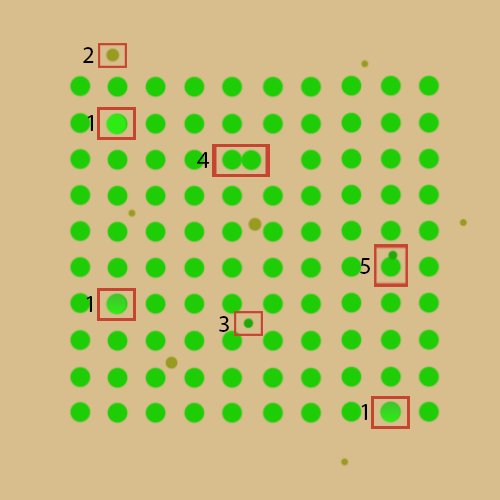
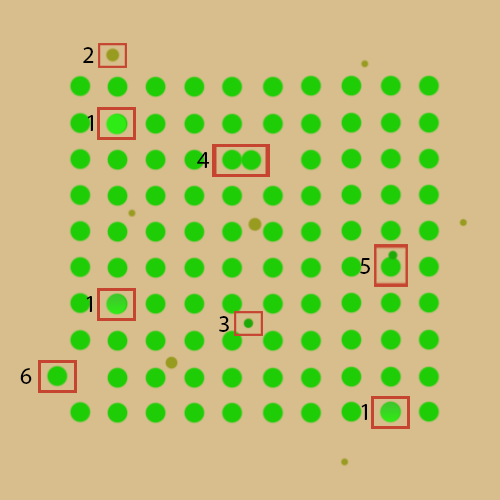
Changement Traitement d'images

Changed region(s): [[0.03, 0.72, 0.18, 0.81], [0.6, 0.15, 0.63, 0.21]]

diff --git a/report/ColorDetection.tex b/report/ColorDetection.tex
@@ -6,7 +6,7 @@ To increase the robustness of the algorithm, the color of the light beams was ch
 
 For unit testing, the image analysis is performed by extracting frames from the video stream obtained thanks to the computer webcam. These images are processed very quickly, which allows a real time analysis. The details of the method employed are given below. For the explanation, the figures are obtained for the detection of a blue box (the H value was changed for this purpose), but the algorithm works similarly for green light beams.
 
-To begin with, a low-pass filter is applied to the image to handle to smooth it and to reduce the noise. Once achieved, the image is converted from RGB to HSV (see Theory Section) in order to get a better control of the colors and intensities of the image pixels. The range of the HSV parameters can be determined to isolate the bright green pixels from the rest of the image. The equivalent hue is between 60\degree  and 180\degree, taking a large scope to be sure to isolate the good color component. As the luminous points will be bright, the range of the saturation and the luminosity should be chosen around the upper values. To adjust the values, several trackbars are added to the image, see figure \ref{fig:trackbars} and the modifications are made in real time. All the values under the threshold defined are irrelevant. Thus the pixels of the binary image which corresponds to the HSV thresholding are set to 1 (white) for the zone where the light beams are recognized and to 0 (black) for the background, the rest of the image. This image is then easier to deal with because it is only composed of two values, black and white. Erosions and dilations can be applied respectively to separate connected light beams and remove noise or to fill holes in the rays. The number or erosions and dilations are selected thanks to trackbars once again (figure \ref{fig:trackbars}) and they are computed with the OpenCV functions. 
+To begin with, a low-pass filter is applied to the image to handle to smooth it and to reduce the noise. Once achieved, the image is converted from RGB to HSV (see Theory Section) in order to get a better control of the colors and intensities of the image pixels. The range of the HSV parameters can be determined to isolate the bright green pixels from the rest of the image. The equivalent hue is between 60\degree  and 180\degree, taking a large scope to be sure to isolate the good color component. As the luminous points will be bright, the range of the saturation and the luminosity should be chosen around the upper values. To adjust the values, several trackbars are added to the image, see figure \ref{fig:trackbars} and the modifications are made in real time. All the values under the thresholds defined are irrelevant. Thus the pixels of the binary image which corresponds to the HSV thresholding are set to 1 (white) for the zone where the light green points are recognized and to 0 (black) for the background, the rest of the image. This image is then easier to deal with because it is only composed of two values, black and white. Erosions and dilations can be applied respectively to separate connected light beams and remove noise or to fill holes in the points. The number or erosions and dilations are selected thanks to trackbars once again (figure \ref{fig:trackbars}) and they are computed with the OpenCV functions with a 3x3 rectangular structuring element. The size of the kernel of the low-pass filter is also controllable with the trackbars. 
 
 \begin{figure}[H]
   \centering
@@ -15,7 +15,7 @@ To begin with, a low-pass filter is applied to the image to handle to smooth it 
   \label{fig:trackbars}
 \end{figure}
 
-The calibration is carried out through the trackbars and the result is displayed on the video stream with the addition of contours to facilitate the tuning (figure \ref{fig:contours}). \textit{cvFindContours} is used to search the contour of the light beams. The detection is based on the same principle that it has been seen during the exercises in the lab. The algorithm looks for the first pixel belonging to the beam and then follows the contour pixel by pixel. Once the threshold of the low-pass filter, the HSV values and the number of erosion and dilation are established, the calibration is completed.
+The calibration is carried out through the trackbars and the result is displayed on the video stream with the addition of contours to facilitate the tuning (figure \ref{fig:contours}). \textit{cvFindContours} is used to search the contour of the light spots. The detection is based on the same principle that it has been seen during the exercises in the lab. The algorithm looks for the first pixel belonging to the point and then follows the contour pixel by pixel. Once the threshold of the low-pass filter, the HSV values and the number of erosion and dilation are established, the calibration is completed. For the unit testing with the blue box, we will only focus on the color detection and the centroiding. Thus, no erosion nor dilation will be added and the filter kernel is set to one pixel, which does nothing. 
 
 \begin{figure}[H]
   \centering
@@ -24,7 +24,7 @@ The calibration is carried out through the trackbars and the result is displayed
   \label{fig:contours}
 \end{figure}
 
-In order to compute the centroid of the beams, it is needed to retrieve their intensity. To this end, the color detection should return an image with the light points in HSV color on a black background. To do so, the binary image is multiplied by the HSV image. The multiplication is explained by the pseudo code below. 
+In order to compute the centroid of the beams spots, it is needed to retrieve their intensity. To this end, the color detection should return an image with the light points in HSV color on a black background. To do so, the binary image is multiplied by the HSV image. The multiplication is explained by the pseudo code below. 
 
 \begin{algorithmic}
 \Function{multiplication}{binary image, color image}
@@ -39,7 +39,7 @@ In order to compute the centroid of the beams, it is needed to retrieve their in
 \EndFunction
 \end{algorithmic}
 
-The final image obtained is shown figure \ref{fig:finalImage}.
+The final image obtained is shown figure \ref{fig:finalImage}. Each white pixel corresponding to 1 in the binary image is replaced in the final image by the HSV value of the original image and the background is set to black like in the binary image.
 
 \begin{figure}[h]
   \centering
@@ -49,7 +49,9 @@ The final image obtained is shown figure \ref{fig:finalImage}.
 \end{figure}
 
 \subsection{Beams Distinction}
-In the previous part, a unit test was performed with a blue box to check the efficiency of the color detection algorithm. However, the aim is to project a grid of 10 x 10 green points on a rock. Once they are extracted from the rest of the image with the same technique described above, they need to be separated. Indeed, for now, we only have the coordinates of the pixels assumed to belong to the spots. To look for the center of mass, the pixels which constitute each point have to be gathered. It should be noticed that, as no pattern is used to carry out the depth mapping, the green points cannot be distinguished from each others. This implementation does not take into account the position of each beam, which could be problematic if the deformation is too important. To solve this problem, different patterns have to be projected on the rock, which would assure that no spot has been switched. Nevertheless, this method requires more material, power consumption and is dismissed in a first approach.
+In the previous part, a unit test was performed with a blue box to check the efficiency of the color detection algorithm. However, the aim is to project a grid of 10 x 10 green points on a rock. Once they are extracted from the rest of the image with the same technique described above, they need to be separated. Indeed, for now, we only have the coordinates of the pixels assumed to belong to the beam spots. To look for their center of mass, the pixels which constitute each point have to be gathered. 
+
+It should be noticed that, as no pattern other than an unicolour grid is used to carry out the depth mapping, the green points cannot be distinguished from each others. Thus, this implementation does not take into account the position of each beam spot, which could be problematic if the deformation is too important. Indeed, if a point is slightly linked to another or if it has moved and is a bit above or under the others, it is still possible to retrieve its original position. It is only if the change is too important that it will be very complicated to get the correct location of each beam spot. To solve this problem, different patterns as described in the Structured Light Theory Section have to be projected on the rock, which would assure that no spot has been switched. Nevertheless, this method requires more material, power consumption and is dismissed in a first approach. 
 
 To differentiate each point, a recursive method was implemented using C++ which consists to isolate a point using neighbouring pixels. The pseudo code explaining the technique can be found below:
 
@@ -67,4 +69,4 @@ To differentiate each point, a recursive method was implemented using C++ which 
 \EndFunction
 \end{algorithmic}
 
-The image is scanned and each time that a green pixel is detected, that means that it is the beginning of a new point. A new table to collect the coordinates of pixels belonging to it is created. The recursive method is run. The first pixel position is added to the table, its value is set to 0 in the image and the recursive method is repeated while neighbouring pixels are found. At the end, a 2D table is obtained where the rows correspond to the spots and the columns to each pixel belonging to the point. The centroiding algorithm can then be processed to determine the center of mass of each spot and compute their distance to the camera. 
+The image is scanned and it is assumed that a new point begins each time that a green pixel is detected. A table to collect the coordinates of pixels belonging to the new beam spot is created and given in parameter to the recursive method. The first pixel position is added to the table, its value is set to 0 in the image and the recursive method is repeated while neighbouring pixels are found. At the end, a 2D table is obtained where the rows correspond to the spots and the columns to each pixel belonging to the point. The centroiding algorithm can then be processed to determine the center of mass of each spot and compute their distance to the camera. We can note that, for now, the points are separated but if they were not perfectly aligned on the projection, the rows of the 2D table are not in the same order than the original projected points.

diff --git a/report/Centroiding.tex b/report/Centroiding.tex
@@ -1,12 +1,12 @@
 \subsection{Centroiding}
 
-The 3D map can be performed with the coordinates of the light points seen by the camera. They are determined by estimating the center of the spot, and to do so, the center of mass, also called the centroid needs to be calculated in the final image acquired by the color detection. In order to get it, a barycenter of the pixels belonging to the beam is carried out weighted by the intensity of the pixel (S value in HSV model).
+The 3D map can be performed with the coordinates of the light points seen by the camera. They are determined by estimating the centre of the spots, and to do so, the centres of mass, also called the centroids need to be calculated in the final image acquired by the color detection. In order to get it, a barycentre of the pixels belonging to the beam spot is carried out weighted by the intensity of the pixel (S value in HSV model).
 
 \begin{align}
 x_c &= \frac{\sum_x x \cdot I(x,y)}{\sum_x \sum_y I(x,y)} \label{xcentroid} \\
 y_c &= \frac{\sum_y y \cdot I(x,y)}{\sum_x \sum_y I(x,y)} \label{ycentroid}
 \end{align}
-Where $x_c$ and $y_c$ are the coordinates of the center of mass of the spot, $x$ and $y$ the coordinates of each pixel belonging to the spot and $I$ their corresponding intensity.
+Where $x_c$ and $y_c$ are the coordinates of the centre of mass of the spot, $x$ and $y$ the coordinates of each pixel belonging to the spot and $I$ their corresponding intensity.
 
 The intensity of each pixel is obtained by splitting the canals of the image into three to retrieve an image with only the Saturation values. Then the formulas \eqref{xcentroid} and \eqref{ycentroid} are computed. A white cross is displayed on the centroid in real time as it can be seen on the figure \ref{fig:finalImage} or below figure \ref{fig:gridCentroiding} on a simple grid image \ref{fig:grid}.
 
@@ -24,9 +24,24 @@ The intensity of each pixel is obtained by splitting the canals of the image int
 \caption{RGB images of a grid of 10 x 10 green points without any noise} 
 \end{figure}
 
-In a real application, the grid will not be so perfect after the projection on the rock. Small light spots could be detected as false positive or two points could be slightly linked. In order to deal with these issues, two solutions are implemented. First, during the separation step, if a point has an insignificant number of pixel, it is dismissed. The threshold can be adjusted knowing the expected size of a point. On the other hand, morphological operations (see Theory Section) such as openings are used to disconnect two linked points. The number of erosion and dilation to carry out to separate the points without loosing too much information about the points have to be calibrated. These techniques are tested on the same grid as above, adding some noise (see figures \ref{fig:noisyGrid} and \ref{fig:noisyGridCentroiding}. To make sure that the opening will only slightly change the center of mass of the points, the centroiding method was performed on figure \ref{fig:grid} with and without opening. The coordinates of the centroids were exactly the same in the two cases. The opening has preserved the information. It will be assume that even if there is a slight centroiding error after the opening, it is insignificant.
+In a real application, the grid will not be so perfect after the projection on the rock. Small light spots could be detected as false positive, two points could be slightly linked or some spots could be displaced. In order to deal with these issues, three solutions are implemented: 
+\begin{itemize}
+\item During the separation step, if a point has an insignificant number of pixel, it is dismissed. The threshold can be adjusted knowing the expected size of a point. 
+\item Morphological operations (see Theory Section) such as openings are used to disconnect two linked points. The number of erosion and dilation to carry out to separate the points without loosing too much information about the points have to be calibrated. 
+\item A bubble sort of the \textbf{x} (or horizontal) coordinate of the centroids is implemented. It consists of finding the maximum \textbf{x} between two consecutive centres of mass and swap them if the bigger value is before the lower. The algorithm goes once through the whole table by repeating this operation box by box. It will be reiterated from the beginning of the table through the end minus one box each time until there is no more swap during an iteration. Thanks to this method, the detected points are classified by their horizontal position. Nevertheless, it must be remembered that the vertical location of the beam spots have to be taken into consideration since we want to order the points row by row from the left to the right. This means that the algorithm needs to be modified to arrange the \textbf{x} position of the points only in they belong to the same row. Thus, we swap the consecutive centroids if their horizontal position is not in an ascending order and also if they belong to the same row. As our grid is 10 x 10, we round to the lower ten the current box position (the numbering is from 0) to know at which row the spot is located.
+\end{itemize}
 
-Several types of noise are added and are denoted figure \ref{fig:noisyGrid}. The first one shows that small changes of green color on a point or inside the same point do not affect the color detection. The second noise is a spot of a green-brown color. As it is expected, it is not detected by the color detection algorithm. Then, the same spot (3 on the figure) but with a color close to the grid points is added to the image. It is detected as a point but its size is under the threshold chosen and it is dismissed as it can be seen on the figure \ref{fig:noisyGridCentroiding}. The opening also ensures that the unexpected spot disappears. The fourth noise represents two linked points. Thanks to the opening, they are well separated on the final image. Finally, the last kind of noise tested (5) is a smaller green spot (which is noise) linked to a real point. The spot is small and even if it is detected by the color algorithm, the opening is efficient enough to delete it. 
+These techniques are tested on the same grid as above, adding some noise (see figures \ref{fig:noisyGrid} and \ref{fig:noisyGridCentroiding}. To choose the adapted number of erosion and dilation to effectuate the opening, the size of the points have to be taken into account. Indeed, if too many erosions are carried out, all the beam spots will be removed. On the contrary, if not enough are accomplished, two linked spots will not be separated. Each point of the grid is composed of around 300 pixels.  As we want to keep enough pixels to compute an accurate centroid, it is needed to keep at least 50 pixels. Four erosions allow to reach this result, followed by the same number of dilation to retrieve nearly the original number of pixels and to accomplish the opening. To make sure that the opening will only slightly change the centre of mass of the points, the centroiding method was performed on figure \ref{fig:grid} with and without opening. The coordinates of the centroids were exactly the same in the two cases. The opening has preserved the information. It will be assumed that even if there is a slight centroiding error after the opening, it is insignificant.
+
+Several types of noise are added and are denoted figure \ref{fig:noisyGrid}. 
+\begin{itemize}
+\item The first one shows that small changes of green color on a point or inside the same point do not affect the color detection, but could have an impact on the centroid as it is weighted by the intensity of the color. 
+\item The second noise is a spot of a green-brown color. As it is expected, it is not detected by the color detection algorithm. 
+\item The same spot (3 on the figure) but with a color close to the grid points is added to the image. It is detected as a point but its size is under the threshold chosen and it is dismissed as it can be seen on the figure \ref{fig:noisyGridCentroiding}. The opening also ensures that the unexpected spot disappears. 
+\item The fourth noise represents two linked points. Thanks to the opening, which reduces the size of the beam spots before increasing them but not as much as they were originally, the connected points are well separated on the final image.
+\item In 5, a smaller green spot (which is noise) is linked to a real point. The spot is tiny and even if it is detected by the color algorithm, the opening is efficient enough to delete it as it is on the edge of a bigger beam spot.
+\item Finally, the last kind of noise tested (6)  ... to be completed
+\end{itemize}
 
 \begin{figure}[!h] 
 \centering
